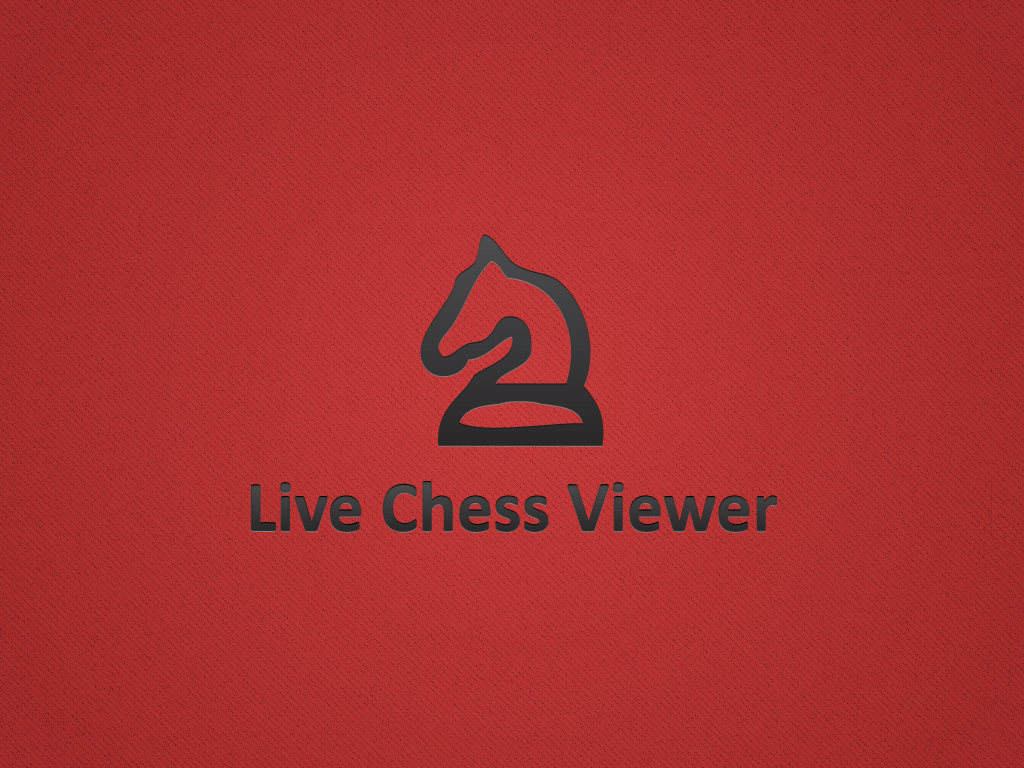
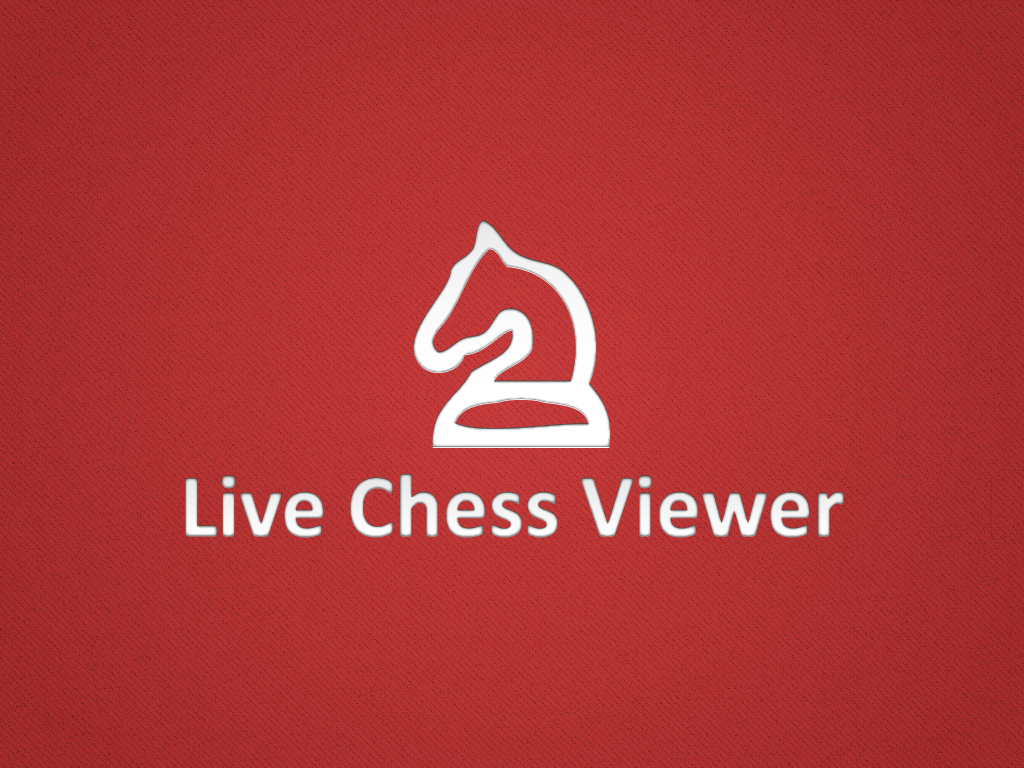
Images in white and action badges

Changed region(s): [[0.1562, 0.5938, 0.8438, 0.7188], [0.4062, 0.2812, 0.5938, 0.5938]]

diff --git a/LCV/RootViewController.m b/LCV/RootViewController.m
@@ -53,27 +53,24 @@
     NSLog(@"loadview");
     float width = 0;
     float height = 0;
-    switch ([[UIDevice currentDevice] orientation]) {
-        case UIDeviceOrientationPortrait:
-        case UIDeviceOrientationPortraitUpsideDown:
-            width = [UIScreen mainScreen].bounds.size.width;
-            height = [UIScreen mainScreen].bounds.size.height;
-            break;
-        case UIDeviceOrientationLandscapeLeft:
-        case UIDeviceOrientationLandscapeRight:
-            width = [UIScreen mainScreen].bounds.size.height;
-            height = [UIScreen mainScreen].bounds.size.width;
-            break;
-            
-        default:
-            width = [UIScreen mainScreen].bounds.size.width;
-            height = [UIScreen mainScreen].bounds.size.height;
-            break;
-    }
-    UIView *view = [[UIView alloc] initWithFrame:CGRectMake(0, 0, width, height)];
-    view.backgroundColor = [UIColor scrollViewTexturedBackgroundColor];
     
-    UIBarButtonItem *menuBtn =[[UIBarButtonItem alloc] initWithImage:[UIImage imageNamed:@"icon-menu.png"] 
+    if ([[UIDevice currentDevice] userInterfaceIdiom] == UIUserInterfaceIdiomPhone) {
+        NSLog(@"PHONE");
+        width = [UIScreen mainScreen].bounds.size.width;
+        height = [UIScreen mainScreen].bounds.size.height;
+    }
+    else if ([[UIDevice currentDevice] userInterfaceIdiom] == UIUserInterfaceIdiomPad) {
+        NSLog(@"PAD");
+        width = [UIScreen mainScreen].bounds.size.height;
+        height = [UIScreen mainScreen].bounds.size.width;
+    }
+    
+    NSLog(@"width: %f, height: %f", width, height);
+    UIView *view = [[UIView alloc] initWithFrame:CGRectMake(0, 0, width, height)];
+    
+    UIView *viewInner = [[UIView alloc] initWithFrame:CGRectMake(0, 20, width, height - 20)];
+    
+    UIBarButtonItem *menuBtn =[[UIBarButtonItem alloc] initWithImage:[UIImage imageNamed:@"icon-settings.png"] 
                                                                    style:UIBarButtonItemStyleBordered 
                                                                   target:self 
                                                                   action:@selector(didTouchMenu)];
@@ -86,19 +83,19 @@
                                                              target:self 
                                                              action:@selector(addCourseModal)];
     UIBarButtonItem	*flex = [[UIBarButtonItem alloc] initWithBarButtonSystemItem:UIBarButtonSystemItemFlexibleSpace target:nil action:nil];
-    _toolbar = [[UIToolbar alloc] init];
+    _toolbar = [[UIToolbar alloc] initWithFrame:CGRectMake(0, 0, width, 44)];
     [_toolbar setBarStyle:UIBarStyleBlack];
-    [_toolbar sizeToFit];
     [_toolbar setItems:[NSArray arrayWithObjects:menuBtn, nil]];
     
-    [view addSubview:_toolbar];
+    [viewInner addSubview:_toolbar];
     
     LoadingView *loadingView = [[LoadingView alloc] init];
     [loadingView setTag:VIEW_LOADING_VIEW];
+    
+    [view addSubview:viewInner];
     [view addSubview:loadingView];
     
     [self setView:view];
-    [_toolbar setAutoresizingMask:UIViewAutoresizingFlexibleWidth];
     [view release];
 	[[StreamController sharedStreamController] connect];
 }
@@ -106,7 +103,7 @@
 - (void)didConnect
 {
     [[self.view viewWithTag:VIEW_LOADING_VIEW] removeFromSuperview];
-    [[UIApplication sharedApplication] setStatusBarHidden:NO withAnimation:UIStatusBarAnimationFade];
+    [[UIApplication sharedApplication] setStatusBarHidden:NO withAnimation:UIStatusBarAnimationNone];
 }
 
 - (void)viewDidLoad

diff --git a/LCV/LoadingView.m b/LCV/LoadingView.m
@@ -29,10 +29,13 @@
     
     self = [super initWithFrame:frame];
     if (self) {
+        CGPoint labelViewOrigin = CGPointMake(frame.size.width/2 - 60, 570); //iPad
         UIImageView *splash = [[UIImageView alloc] initWithImage:[UIImage imageNamed:@"Default@2x.png"]];
-        if (_device == IPHONE) {
-            if (frame.size.width < 600) {  //old iphone
+        if (_device == IPHONE) { //iPhone
+            labelViewOrigin = CGPointMake(frame.size.width/2 - 70, 800);
+            if (frame.size.width < 600) {  //Old iPhone
                 splash = [[UIImageView alloc] initWithImage:[UIImage imageNamed:@"Default.png"]];
+                labelViewOrigin = CGPointMake(frame.size.width/2 - 70, 700);
             }
         }
         else if (_device == IPAD) {
@@ -41,11 +44,26 @@
         
         [self addSubview:splash];
         
-        UIActivityIndicatorView *activityIndicator = [[UIActivityIndicatorView alloc] initWithFrame:CGRectMake(frame.size.width/2, frame.size.height/2, 20, 20)];
+        UIActivityIndicatorView *activityIndicator = [[UIActivityIndicatorView alloc] initWithFrame:CGRectMake(0, 0, 22, 22)];
         [activityIndicator setActivityIndicatorViewStyle:UIActivityIndicatorViewStyleWhite];
         [activityIndicator startAnimating];
-        [self addSubview:activityIndicator];
-        [self bringSubviewToFront:activityIndicator];
+        
+        UILabel *loadingLabel = [[UILabel alloc] initWithFrame:CGRectMake(30, 0, 120, 24)];
+        [loadingLabel setText:@"Connecting..."];
+        [loadingLabel setFont:[UIFont boldSystemFontOfSize:18]];
+        [loadingLabel setBackgroundColor:[UIColor clearColor]];
+        [loadingLabel setTextColor:[UIColor whiteColor]];
+        
+        [loadingLabel setShadowColor:[UIColor colorWithRed:0 green:0 blue:0 alpha:.35]];
+        [loadingLabel setShadowOffset:CGSizeMake(0, -1.0)];
+        
+        UIView *labelView = [[UIView alloc] initWithFrame:CGRectMake(labelViewOrigin.x, labelViewOrigin.y, 140, 30)];
+        [labelView addSubview:activityIndicator];
+        [labelView addSubview:loadingLabel];
+        //[labelView setBackgroundColor:[UIColor blueColor]];
+        
+        [self addSubview:labelView];
+        [self bringSubviewToFront:labelView];
     }
     return self;
 }

diff --git a/LCV/AppDelegate.m b/LCV/AppDelegate.m
@@ -24,9 +24,10 @@
 
 - (BOOL)application:(UIApplication *)application didFinishLaunchingWithOptions:(NSDictionary *)launchOptions
 {
-    [UIApplication sharedApplication].statusBarHidden = YES;
-	[UIApplication sharedApplication].idleTimerDisabled = YES;
-	[UIApplication sharedApplication].statusBarStyle = UIStatusBarStyleBlackOpaque;
+    //[[UIApplication sharedApplication] setStatusBarHidden:NO withAnimation:UIStatusBarAnimationNone];
+    [[UIApplication sharedApplication] setIdleTimerDisabled:YES];
+    [[UIApplication sharedApplication] setStatusBarStyle:UIStatusBarStyleBlackOpaque];
+    
 	[StreamController sharedStreamController].mainViewController = _rootViewController;
     
     self.window = [[[UIWindow alloc] initWithFrame:[[UIScreen mainScreen] bounds]] autorelease];
